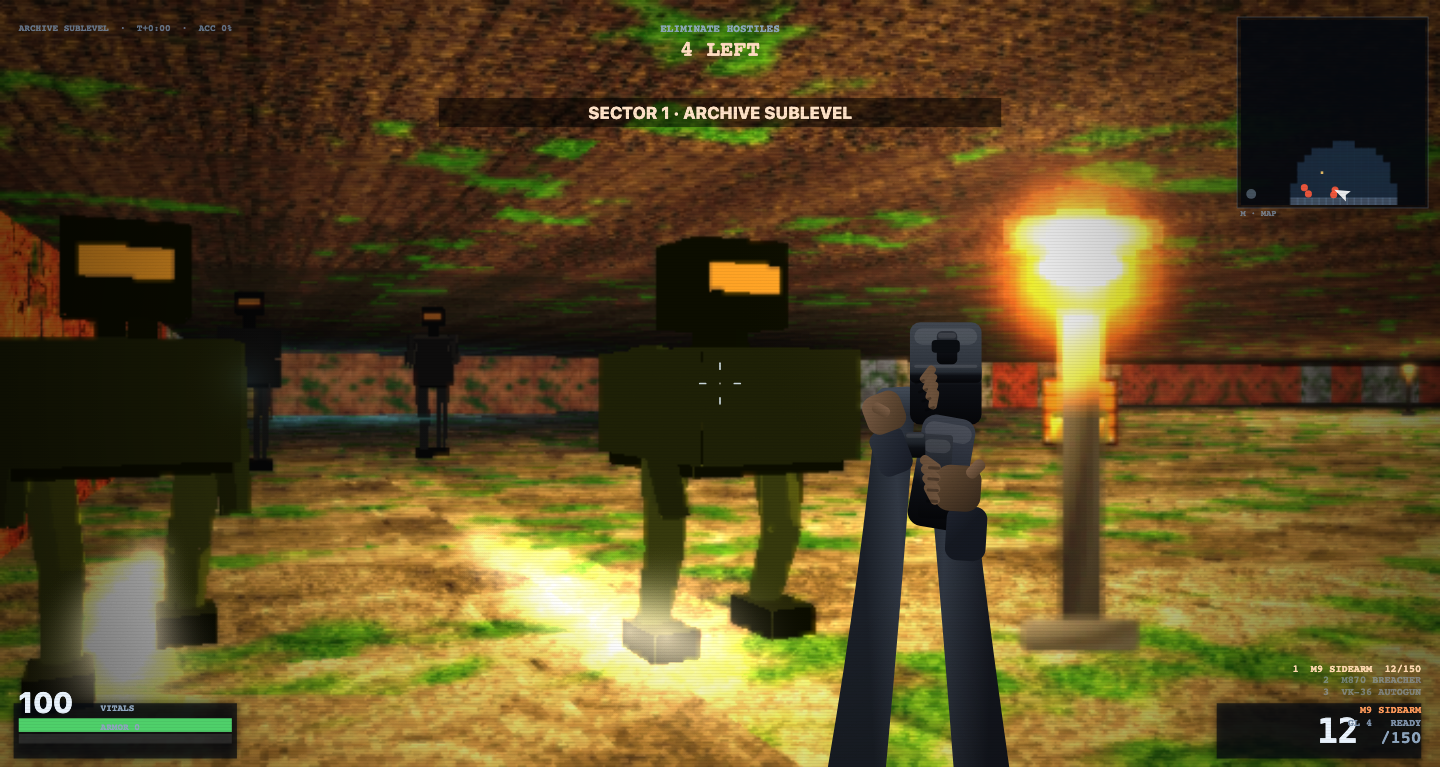
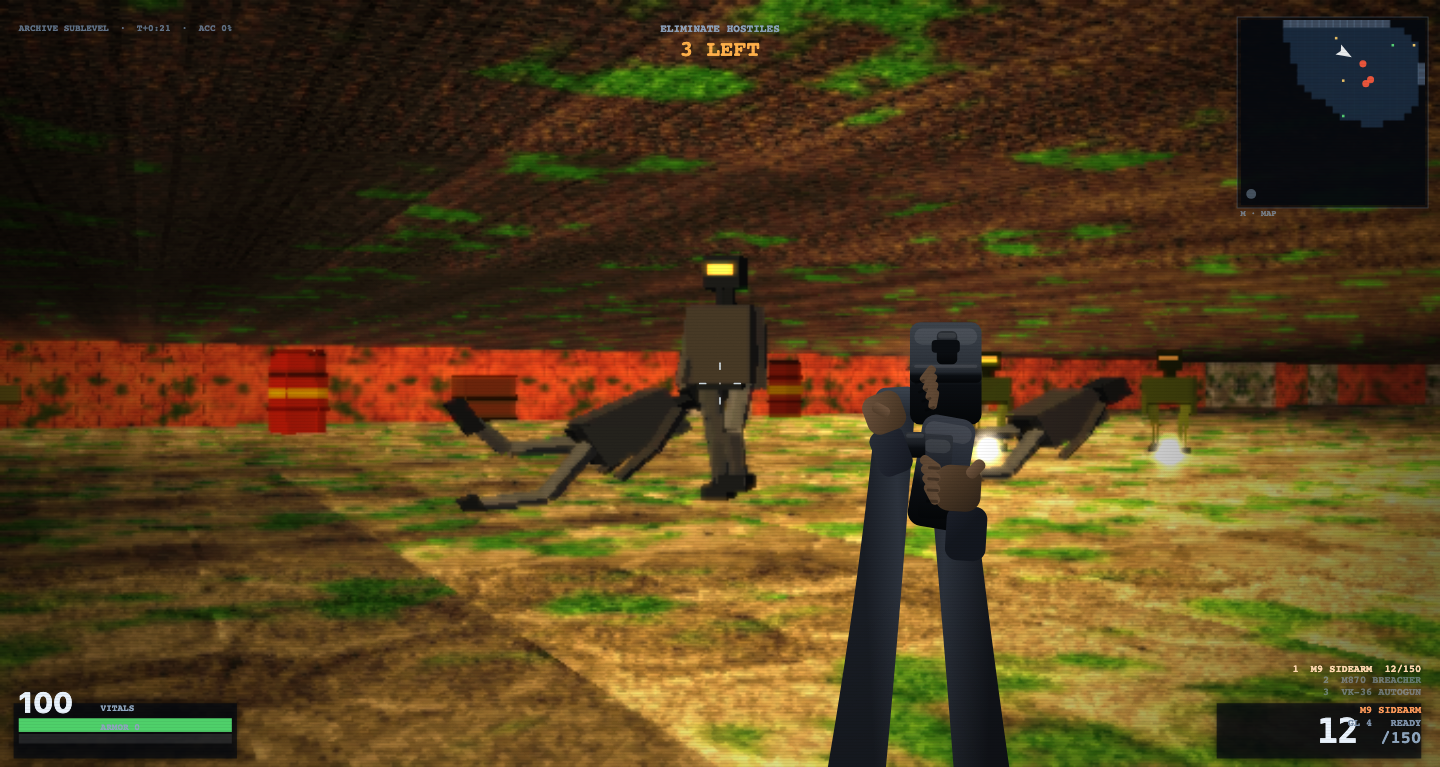
Screenshots refreshed from 83d9411: volumetric props in frame, two identical corpses, plus the bloom-layer correction

diff --git a/README.md b/README.md
@@ -53,27 +53,32 @@ Difficulty changes enemy damage, health and count.
 ## How it looks
 ### What it looks like today
 
-Captured from the deployed build, not from a mockup or an old build: [live site](https://lioreshai.github.io/breach-protocol-flash-next/). These are refreshed whenever a merged PR changes what the game looks like. All three come from a **single boot**: `startLevel` calls `genLevel` unconditionally, so any reset deals a new map, and the camera is posed with `DEV.cam` and the frame frozen with `DEV.freeze` so nothing moves between the probe and the capture.
+Captured from the deployed build, not from a mockup or an old build: [live site](https://lioreshai.github.io/breach-protocol-flash-next/). These are refreshed whenever a merged PR changes what the game looks like. All four come from a **single boot**: `startLevel` calls `genLevel` unconditionally, so any reset deals a new map, and the camera is posed with `DEV.cam` and the frame frozen with `DEV.freeze` so nothing moves between the probe and the capture. Numbers quoted in these captions are **composited canvas** readings - what the site shows, bloom included - while `node tools/view.js` quotes the **pre-bloom raster**. They differ by roughly +30 mean luminance (#85), so a caption number and a probe number are not comparable and are never mixed in one sentence here.
 
 ![spawn corridor](docs/screens/level0-spawn.png)
 
-*Build `d901b89`, spawn cell of Archive Sublevel at (19.5, 3.5), turned toward the longest direction whose mid-window luminance lands in the 60-100 band: yaw 2.09 rad (120 deg), a wall `hit` at 24.8 m, mid-window reading 64.0. The same frame's **full-frame** mean is 55.8, which is below the band - the ceiling fills the top quarter of the image, and the band has always been measured on the middle window, so quoting 64.0 alone would flatter the frame. Floors and ceilings choose their mip from **both** axes of the pixel footprint (#57), so the ground keeps tile detail into the middle distance instead of point-sampling into mush, and that part of the picture is untouched by the character work below. Two defects survive here: the ceiling near the horizon still streaks radially where true anisotropy exceeds the 4:1 clamp chosen to keep the floor's grout lines, and which cell counts as "spawn" depends on the generator's roll (#60) - this boot dealt a 24.8 m corridor where the boot behind the previous version of this shot measured 12.4 m. Cleared with `DEV.clear()`, so nothing is mid-attack and the counter reads 0 LEFT.*
+*Build `83d9411`, spawn cell of Archive Sublevel at (18.5, 7.5), turned toward the longest direction that lands in the band **while keeping props out of the lens**: yaw 1.57 rad (90 deg), a wall `hit` at 17.5 m, mid-window 80.9, composited full-frame mean 80.6. Two rejected candidates belong to this shot's story. The longest sight (yaw 135 deg) measured 102 mid-window, above the band. The pose before it put a **lamp 1 m from the lens**, filling the frame with a grey pole and a bloom blob - so "longest lit direction" stopped being sufficient the moment props became solids, and the search now rejects any prop within 4.5 m of the camera inside +/- 0.4 rad. What is in frame: two crates, a barrel centre-screen with its hazard band, and a lamp at right that reads as a **dark post**, because a lamp no longer saturates a single pixel of the raster (#84). Two defects survive from before: the ceiling streaks radially near the horizon where true anisotropy exceeds the 4:1 clamp chosen to keep the floor's grout lines (#57), and which cell counts as "spawn" is the generator's roll (#60) - this boot dealt (18.5, 7.5) where the boot behind the previous version of this shot dealt (19.5, 3.5). Cleared with `DEV.clear()`, so nothing is mid-attack and the counter reads 0 LEFT.*
 
 ![close wall](docs/screens/level0-facing-wall.png)
 
-*1.50 m from a wall face (camera 16.66, 23.70, yaw 60 deg; the distance was re-measured from the pose with a ray that reports `hit`, because `DEV.ray` returns a far-plane distance on a miss and "sight" numbers that come from misses are not distances), full-frame mean 90.8. The forearms still read as tubes, and that is not a shading problem: the first-person viewmodel is still immediate-mode Canvas2D vector art drawn in `renderOverlay` (`js/40_render.js:933`), with no texture and no depth test - the subject of #77. The strip of floor along the bottom is close ground after #57 - busier and more legible than the point-sampled version it replaced - so the older note here, that the floor was over-saturated and too busy at close range, is re-stated against the new sampling rather than quietly dropped.*
+*1.50 m from a wall face, camera (18.94, 2.06) at yaw 315 deg. The camera was backed off from the **face** - `DEV.ray`'s own hit point - and not from the cell centre, and the distance was re-measured from the finished pose. That re-measure is the interesting part: 856 candidate poses all sat at exactly 1.50 m, so distance was never the filter and the luminance band was, and the winner is the one whose mid-window (84.5) sits nearest the middle of it, composited full-frame mean 66.1. Two back-off bugs were caught only by measuring **after** posing: in one cut the camera stood 1.5 m from a **miss**, because `DEV.ray` returns a far-plane distance when it does not hit, and in another it landed on `x = 8.0` exactly - a cell boundary - because the back-off was taken from the cell centre, and the confirming ray then reported `dist 0`. What the frame is good at is close-range wall texture: rust streaks, grout, moss, and a two-material corner. The forearms still read as tubes, which is not a shading problem: the first-person viewmodel is immediate-mode Canvas2D vector art drawn in `renderOverlay` (`js/40_render.js:933`), with no texture and no depth test - the subject of #77.*
 
 ![enemies](docs/screens/level0-enemies.png)
 
-*Four enemies from the same generated level as the shot above: hounds placed at 4.00 m and grunts at 6.50 m, then 60 `DEV.tick` frames of approach, all four in `chase`, player at 100, full-frame mean 76.3, camera at (14.5, 24.5) down a 13.5 m corridor. The bodies account for **138,149 of 1,104,480 frame pixels (12.5%)**, measured as the difference against the identical frame with `ENEMIES` emptied rather than by projecting anything. The hounds had closed to 1.36 and 1.27 m by capture, which is why the left edge is a wall of torso - the trap this caption used to describe at 1.45 m, now with numbers: `DEV.spawn(kind, n, dist)` clamps to the first open cell **short** of `dist`, and chase crosses 4 m in a second.
+*Five enemies placed with `DEV.spawn` - grunts at 3.60 m, hounds at 6.50 m - then 25 `DEV.tick` frames of approach, then two grunts killed and set to `dieT = 0.4` with the **same** `dieAng`, placed at 3.2 m and 4.1 m on either side of the sight line. Camera (14.5, 4.5) down a 14.8 m corridor at yaw 30 deg, player healed to 100 because this is a posed frame and not a played one, HUD reads 3 LEFT, composited mean 64.7 with the mid window at 68.4, and the bodies account for **40,746 of 1,104,480 pixels (3.7%)** - measured as the difference against the identical frame with `ENEMIES` emptied, not by projecting anything.*
 
-These are meshes, not billboards (#72), they are mid-stride rather than frozen (#75), and their limbs self-occlude through the per-pixel depth buffer (#71) - so the notes this caption used to carry about implicit-quad silhouettes (#41) and a -0.398 body-versus-wall correlation measured off billboard pixels are obsolete and removed here rather than kept as scenery. What is genuinely visible, in order of how much it matters:
+*The frame exists to make one claim falsifiable by eye: **the two corpses are the same pose, rotated.** Same `dieT`, same fall direction, same leg in the air, because `js/13_mesh.js:201` is `sw = dying ? -0.45 * side` where `side` is the leg's loop index - nothing per-individual can enter, and #82 is that fix. The rest of what is visible, in order of how much it matters:*
 
-- The centre grunt stands on a **neck**, and it is a long thin one - 10.7% of body height, 49 px wide against a 114 px torso, and about 5 luminance above the wall behind it. #74 closed the daylight between head and torso and the geometry stays closed at every yaw; #80 is the finding that in a dark room this still *reads* detached, because nothing separates the neck from the wall.
-- The bright blobs at bottom-left and right are a lamp's **glow** drawn from `LIGHTS`, not a body; the flare blows past 240 in the middle of the left one.
-- Every cell in this frame is at floor 0 with a one-unit ceiling - `MAP.fz` is 0 and `MAP.cz` is 4 in all 676 cells and `MAP.feat` is all zeros. The stacked-slab machinery is merged and the ground is solved per cell (#52, #67), but no shipped level authors height yet, so "vertical" is true of the engine and not yet of the picture (M3 step 4).
+- *The standing grunt at 3.2 m is the #80 case: a **long thin neck**. #74 closed the daylight between head and torso and the geometry stays closed at every yaw; in a dark room this still reads detached, because nothing separates the neck from the wall.*
+- *The two hounds at 5.5 m are mid-stride (#75) and their limbs self-occlude through the per-pixel depth buffer (#71), so the billboard-era notes this caption used to carry - implicit-quad silhouettes (#41), a -0.398 body-versus-wall correlation - are deleted rather than left as scenery.*
+- *The white blob at the right hound's flank is a lamp behind it, not a body - and a **correction** to the previous version of this caption: that flare is **bloom**, whose additive lift (`js/40_render.js:736-752`, no bright-pass threshold at all) is the only thing that saturates a pixel any more. The raster underneath has none (#84, #85).*
+- *The barrel at left and the crate beside it are meshes now (#76), and the red drum behind the viewmodel is a second barrel, not an enemy.*
 
-And a dumber observation than all of the above: all three kinds carry the same topology - 168 triangles and 16 parts each, one subdivision knob at 6 sides (`js/13_mesh.js:41`) - which is what #78 is about.*
+*Still true and still unimplemented: every cell in this frame is at floor 0 with a one-unit ceiling - `MAP.fz` 0 and `MAP.cz` 4 in all 676 cells, `MAP.feat` all zeros - so "vertical" remains a property of the engine and not of the picture (M3 step 4).*
+
+![props close-up](docs/screens/level0-props.png)
+
+*A crate at 2.2 m and a barrel at 4.1 m, camera (20.5, 6.5) at yaw 30 deg, composited mid-window 80.1. The pose was chosen by counting props inside the field of view at 2-5.5 m with nothing closer than 1.2 m, then taking the brightest-on-band candidate; emptying `PROPS` changes **37,093 pixels** of this frame, which is the honest way to say how much of it they own. Both are meshes since #76 (48 triangles for a crate, 84 for a barrel), so what is wrong with them is authoring and not machinery: a **mesh is vertex-coloured, not textured** (`js/13_mesh.js:89-91`), so the rust, labels and grime the prop sheets paint (`js/12_sprites.js:306-410`) have no representation at all and a crate is flat yellow with one dark band; the barrel shows **octagonal banding** because `tube()` is `NS*2` triangles at `NS = 6` (#78); and at an eye height of half a unit a 0.72-tall crate presents exactly **one face**, so it reads as a board until the player looks down. Neither lamp in this frame blows a pixel of the raster (#84), and the flare that does exist belongs to bloom (#85).*
 
 Everything is generated in plain JS at boot (~1.6 s): no image files, no fetches, no canvas path
 calls. `js/05_paint.js` is a small rasteriser — analytic anti-aliased SDF shapes (segments, discs,
